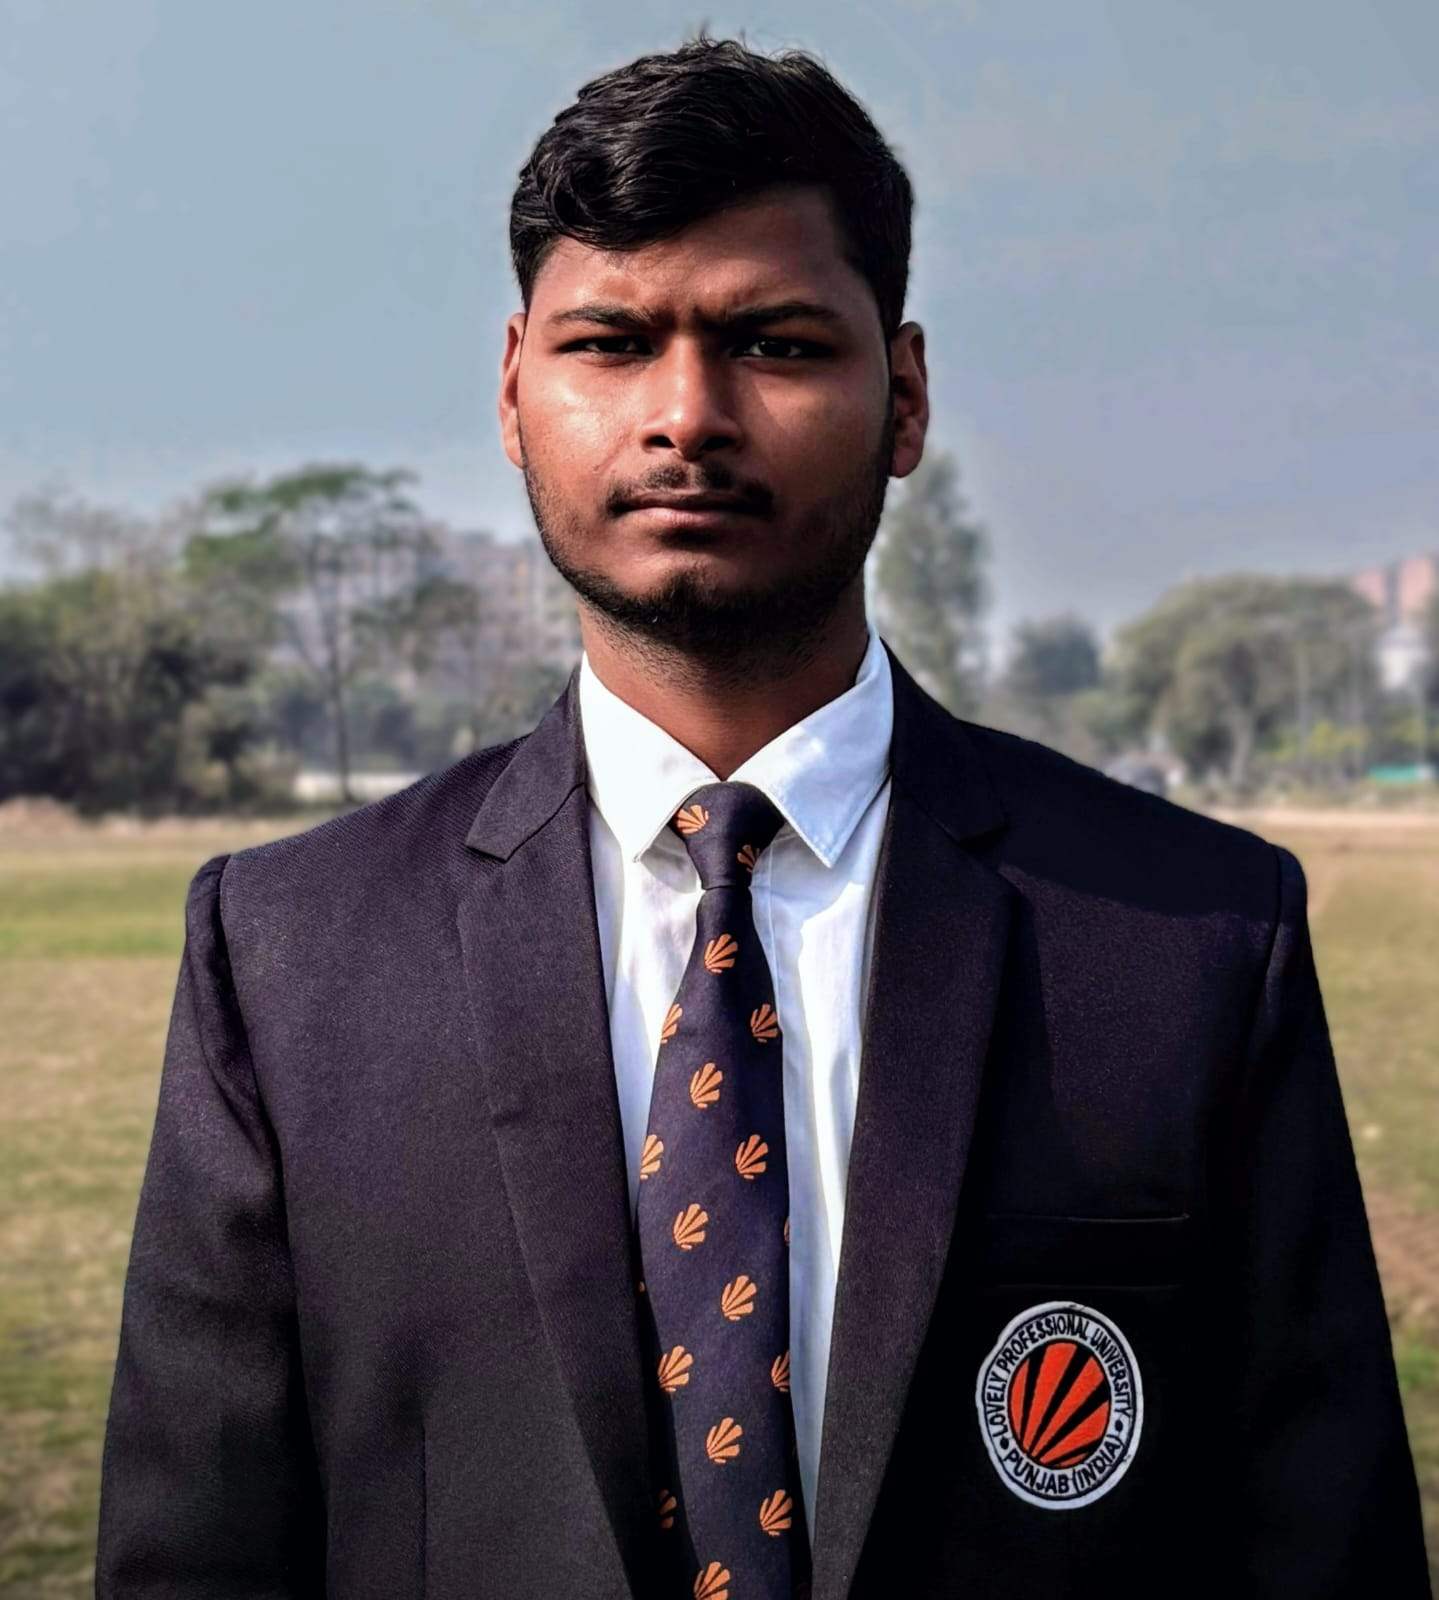
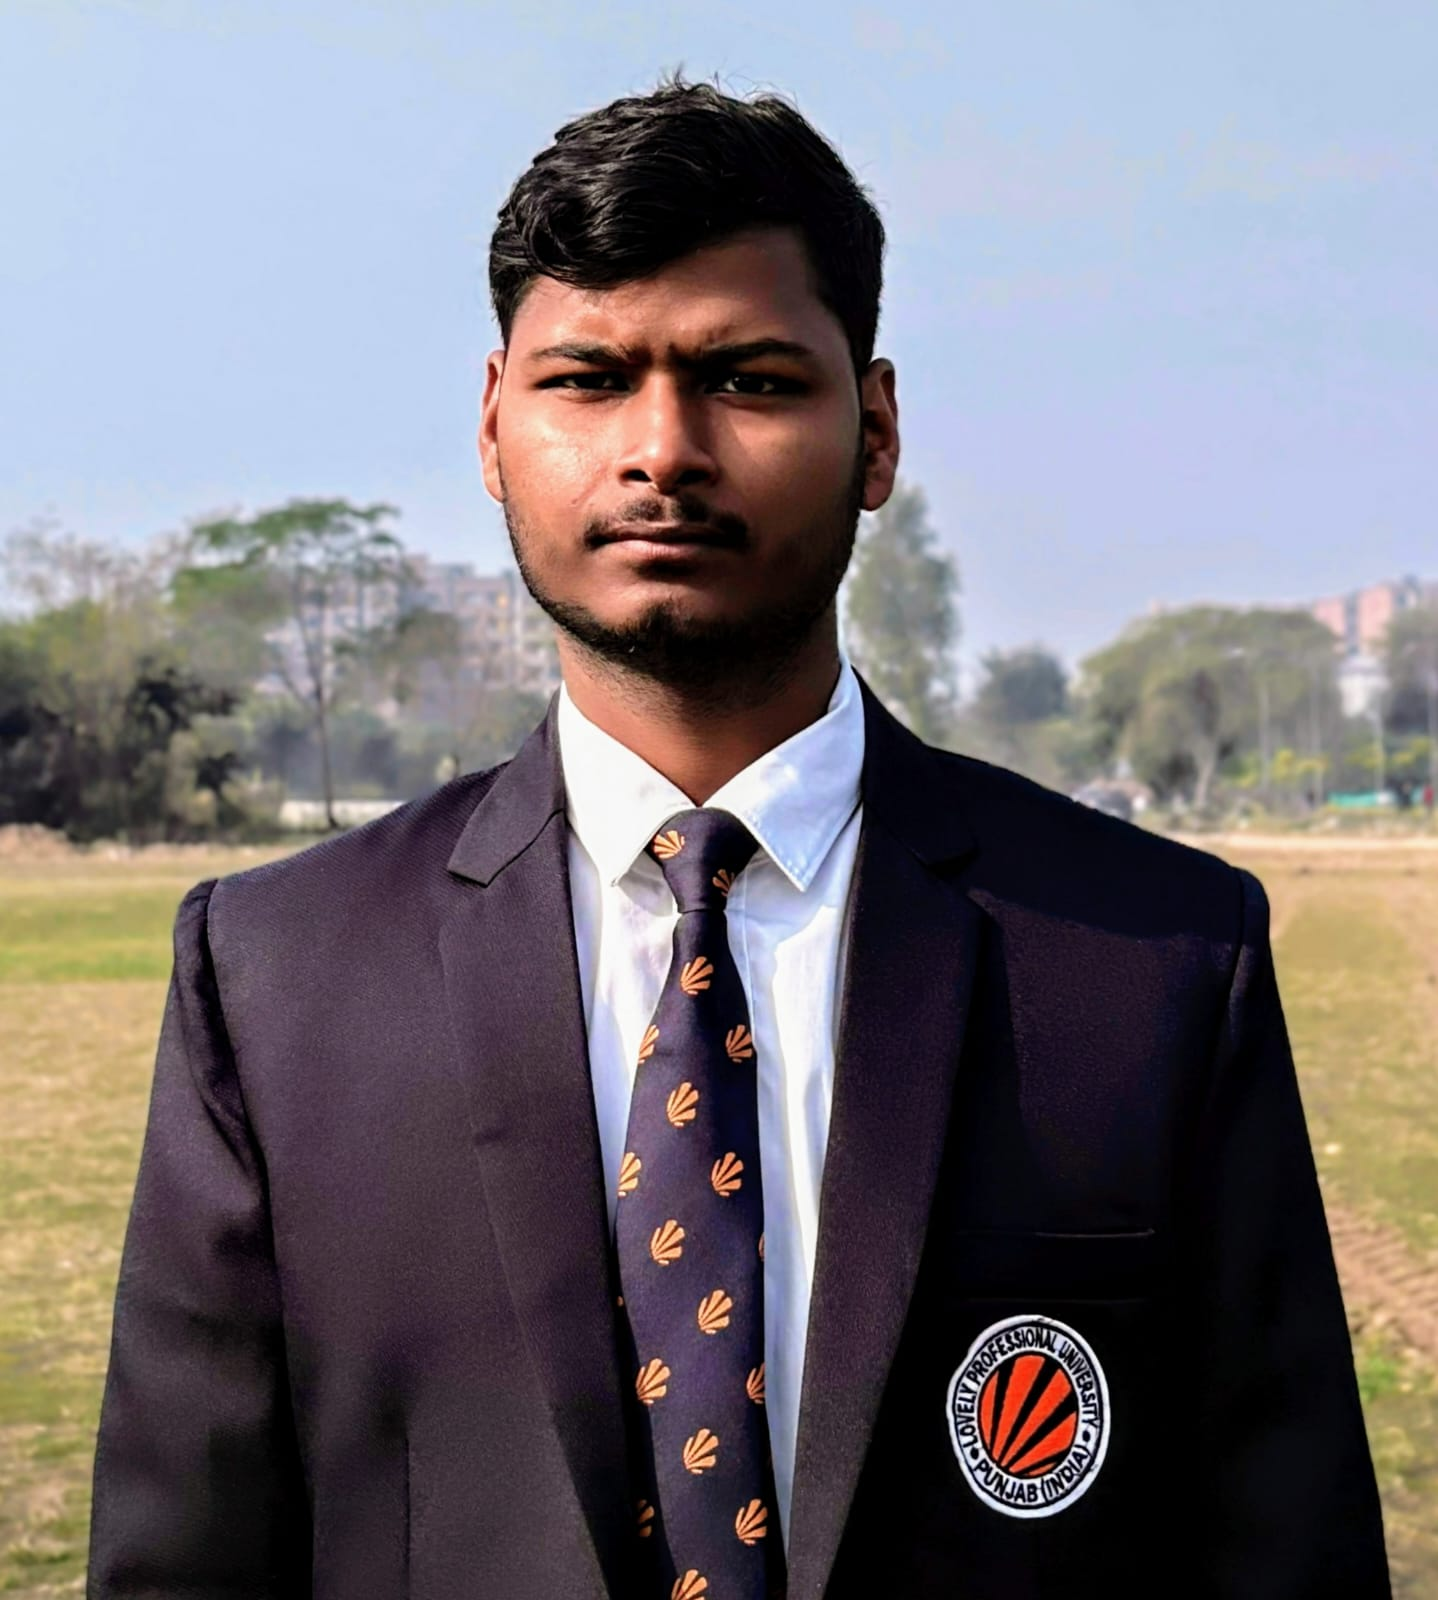
photo updated

diff --git a/src/components/About.jsx b/src/components/About.jsx
@@ -4,7 +4,7 @@ import { FaDownload, FaAward, FaBriefcase, FaUser, FaMapMarkerAlt, FaEnvelope, F
 
 // Import your profile image. 
 // Vite will automatically optimize this and add a unique hash during build so it always updates safely!
-import profileImg from "../assets/profile.jpeg";
+import profileImg from "../assets/profile.jpg";
 
 export default function About() {
   return (
